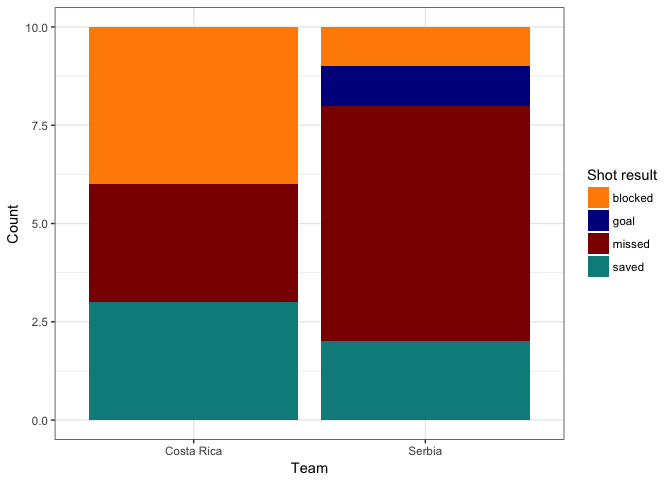
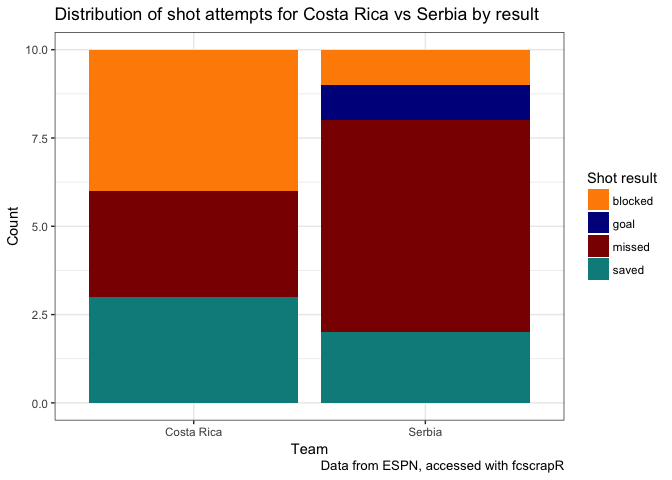
Update image to be titled and captioned

diff --git a/README.md b/README.md
@@ -83,7 +83,9 @@ srb_crc_commentary %>%
   dplyr::filter(!is.na(shot_result)) %>%
   ggplot(aes(x = shot_by_team, fill = shot_result)) +
   geom_bar() + labs(x = "Team", y = "Count", 
-                    fill = "Shot result") +
+                    fill = "Shot result",
+                    title = "Distribution of shot attempts for Costa Rica vs Serbia by result",
+                    caption = "Data from ESPN, accessed with fcscrapR") +
   scale_fill_manual(values = c("darkorange", "darkblue", "darkred", "darkcyan")) +
   theme_bw()
 ```
